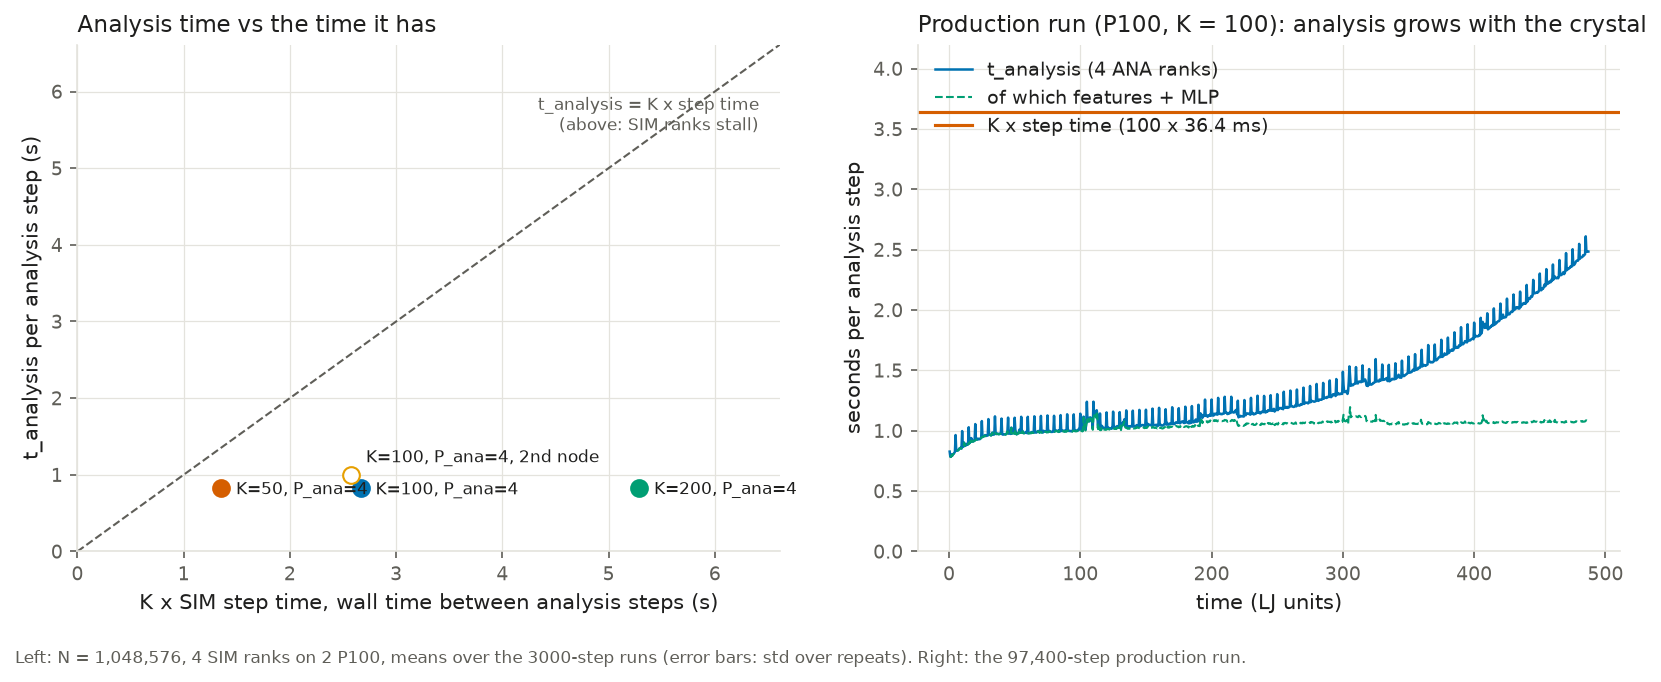
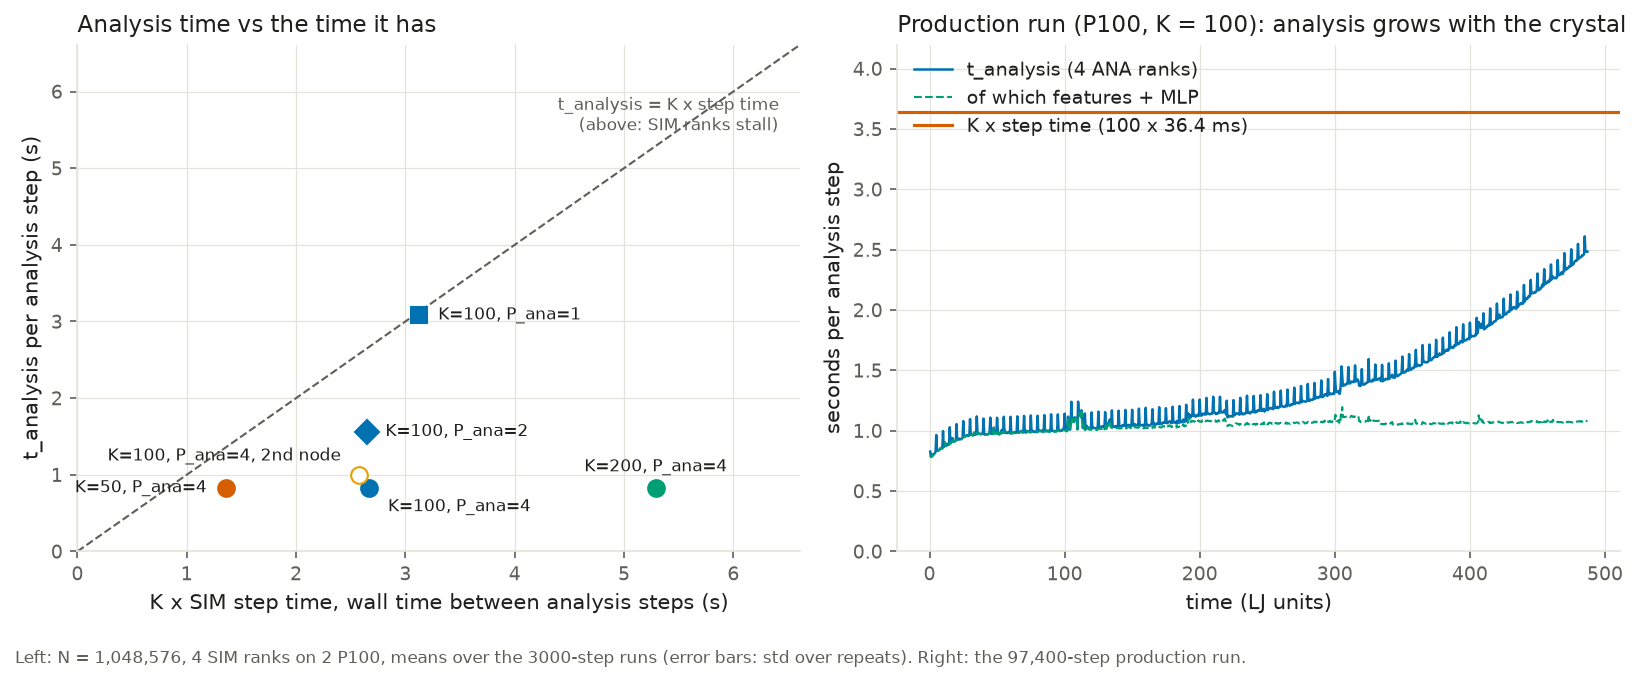
Record in situ overhead vs P_ana (T3.2 measurement 4)
K = 100, 3 repeats. P_ana = 2: +4.1 +- 0.2%, t_analysis 1.56 s, no stall.
P_ana = 1: one ANA rank needs 3.08 s per analysis step, more than the
2.6 s of MD between them, so the SIM ranks stall (13.6 s over 30 sends)
and the step time rises to 31.39 ms (+25%), settling where K x step time
equals t_analysis. runs/perf/results/tables.md holds all tables.

diff --git a/analysis/plot_perf.py b/analysis/plot_perf.py
@@ -268,7 +268,7 @@ if len(ins):
     ax.axhline(0, color=INK, lw=0.8)
     lab = [l.replace(", ANA on a 2nd node", "\nANA on 2nd node").replace(", P_ana", "\nP_ana")
            for l in B.run]
-    lab = [l + ("\n(job 2)" if j == "insitu_sep" and "2nd" not in l else "") for l, j in zip(lab, B.job)]
+    lab = [l + ("\n(other job)" if j == "insitu_sep" and "2nd" not in l else "") for l, j in zip(lab, B.job)]
     ax.set_xticks(x, lab, fontsize=8)
     ax.set_ylabel("SIM step time vs analysis off (%)")
     ax.set_ylim(min(-1, B.over.min() - 1), (B.over + B.over_err).max() * 1.35 + 1)
@@ -323,8 +323,11 @@ if len(ins):
             ax[0].errorbar(r.kstep, r.tana, yerr=r.tana_sd, marker=mk[r.P],
                            color=ORANGE if r.sep else cK[r.K], ms=8, capsize=2, ls="none",
                            mfc="white" if r.sep else None)
+            off_ = {(50, 4, False): (-9, 0, "right"), (100, 4, False): (9, -9, "left"),
+                    (100, 4, True): (-9, 9, "right"), (200, 4, False): (0, 10, "center")}.get(
+                        (int(r.K), int(r.P), bool(r.sep)), (9, 0, "left"))
             ax[0].annotate("K=%d, P_ana=%d%s" % (r.K, r.P, ", 2nd node" if r.sep else ""),
-                           (r.kstep, r.tana), xytext=(7, -3 if not r.sep else 6),
+                           (r.kstep, r.tana), xytext=off_[:2], ha=off_[2], va="center",
                            textcoords="offset points", fontsize=8, color=INK)
         lim = max(q.kstep.max(), q.tana.max()) * 1.25
         ax[0].plot([0, lim], [0, lim], color=MUTED, ls="--", lw=1)

diff --git a/runs/perf/results/tables.md b/runs/perf/results/tables.md
@@ -1,0 +1,97 @@
+rows: 153 experiments: ['drift', 'insitu', 'insitu_sep', 'scaling', 'speedup']
+
+### speedup
+
+| N | CPU 1 core | CPU 10 cores | CPU 20 cores | 1 P100 | 2 P100 | 1 P100 vs 1 core | 1 P100 vs node | 2 P100 vs node |
+|---|---|---|---|---|---|---|---|---|
+| 32,000 | 56.40 | 8.70 | 4.59 | 1.74 | 1.33 | 32.5x | 2.6x | 3.5x |
+| 108,000 | 171.98 | 27.48 | 14.67 | 4.77 | 3.01 | 36.1x | 3.1x | 4.9x |
+| 256,000 | 413.71 | 59.03 | 30.58 | 10.99 | 6.02 | 37.6x | 2.8x | 5.1x |
+| 500,000 | 769.64 | 112.74 | 56.13 | 23.92 | 11.55 | 32.2x | 2.3x | 4.9x |
+| 864,000 | 1355.56 | 201.98 | 99.37 | 46.65 | 21.69 | 29.1x | 2.1x | 4.6x |
+
+(per-rank std)
+
+| config | N | step ms | std | n | force ms |
+|---|---|---|---|---|---|
+| cpu1 | 32000 | 56.401 | 0.195 | 2 | 55.611 |
+| cpu1 | 108000 | 171.978 | 0.055 | 2 | 169.618 |
+| cpu1 | 256000 | 413.708 | 0.026 | 2 | 408.026 |
+| cpu1 | 500000 | 769.636 | 0.096 | 2 | 755.936 |
+| cpu1 | 864000 | 1355.559 | 0.411 | 2 | 1327.085 |
+| cpu10 | 32000 | 8.704 | 0.026 | 3 | 8.094 |
+| cpu10 | 108000 | 27.478 | 0.081 | 3 | 26.316 |
+| cpu10 | 256000 | 59.027 | 0.370 | 3 | 56.506 |
+| cpu10 | 500000 | 112.738 | 0.032 | 3 | 108.510 |
+| cpu10 | 864000 | 201.981 | 0.402 | 3 | 191.474 |
+| cpu20 | 32000 | 4.587 | 0.028 | 3 | 4.111 |
+| cpu20 | 108000 | 14.667 | 0.042 | 3 | 13.627 |
+| cpu20 | 256000 | 30.583 | 0.036 | 3 | 29.052 |
+| cpu20 | 500000 | 56.131 | 0.056 | 3 | 53.881 |
+| cpu20 | 864000 | 99.367 | 0.492 | 3 | 95.528 |
+| gpu1 | 32000 | 1.736 | 0.006 | 3 | 0.897 |
+| gpu1 | 108000 | 4.770 | 0.008 | 3 | 2.385 |
+| gpu1 | 256000 | 10.992 | 0.028 | 3 | 5.426 |
+| gpu1 | 500000 | 23.924 | 0.080 | 3 | 10.151 |
+| gpu1 | 864000 | 46.650 | 0.062 | 3 | 18.460 |
+| gpu2 | 32000 | 1.326 | 0.002 | 3 | 0.728 |
+| gpu2 | 108000 | 3.011 | 0.003 | 3 | 1.464 |
+| gpu2 | 256000 | 6.023 | 0.008 | 3 | 2.790 |
+| gpu2 | 500000 | 11.554 | 0.027 | 3 | 5.411 |
+| gpu2 | 864000 | 21.695 | 0.062 | 3 | 9.242 |
+
+### strong scaling
+
+| run | P | step ms | std | speedup | efficiency |
+|---|---|---|---|---|---|
+| CPU path, N = 256,000 | 1 | 415.29 | 0.15 | 1.00 | 1.00 |
+| CPU path, N = 256,000 | 2 | 225.14 | 0.17 | 1.84 | 0.92 |
+| CPU path, N = 256,000 | 4 | 126.50 | 0.26 | 3.28 | 0.82 |
+| CPU path, N = 256,000 | 8 | 75.19 | 0.02 | 5.52 | 0.69 |
+| CPU path, N = 256,000 | 16 | 38.05 | 0.01 | 10.91 | 0.68 |
+| CPU path, N = 256,000 | 20 | 30.38 | 0.19 | 13.67 | 0.68 |
+| GPU path, N = 256,000 | 1 | 10.87 | 0.04 | 1.00 | 1.00 |
+| GPU path, N = 256,000 | 2 | 6.55 | 0.06 | 1.66 | 0.83 |
+| GPU path, N = 1,048,576 | 1 | 58.52 | 0.06 | 1.00 | 1.00 |
+| GPU path, N = 1,048,576 | 2 | 33.78 | 0.04 | 1.73 | 0.87 |
+| GPU path, N = 1,048,576 | 4 | 25.97 | 0.15 | 2.25 | 0.56 |
+
+### weak scaling
+
+| run | P | N | step ms | std | efficiency |
+|---|---|---|---|---|---|
+| CPU path, 32,000 atoms/core | 1 | 32,000 | 56.50 | 0.04 | 1.00 |
+| CPU path, 32,000 atoms/core | 2 | 64,000 | 59.47 | 0.03 | 0.95 |
+| CPU path, 32,000 atoms/core | 4 | 128,000 | 64.81 | 0.14 | 0.87 |
+| CPU path, 32,000 atoms/core | 8 | 256,000 | 75.32 | 0.02 | 0.75 |
+| CPU path, 32,000 atoms/core | 16 | 512,000 | 75.73 | 0.04 | 0.75 |
+| CPU path, 32,000 atoms/core | 20 | 640,000 | 75.86 | 0.04 | 0.74 |
+| GPU path, 262,144 atoms/GPU | 1 | 262,144 | 11.24 | 0.11 | 1.00 |
+| GPU path, 262,144 atoms/GPU | 2 | 524,288 | 14.60 | 0.03 | 0.77 |
+
+### in situ overhead
+
+| job | run | n | SIM ms/step | std | vs off (%) | +- | t_analysis mean (s) | t_analysis max (s) | stall total (s) | stall max (s) | SIM halo+pack (ms/step) |
+|---|---|---|---|---|---|---|---|---|---|---|---|
+| insitu | off | 6 | 25.08 | 0.05 | +0.0 | 0.3 | nan | nan | nan | nan | nan |
+| insitu | K=50, P_ana=4 | 3 | 26.47 | 0.03 | +5.6 | 0.2 | 0.834 | 1.102 | 0.000 | 0.0000 | 0.143 |
+| insitu | K=100, P_ana=4 | 3 | 26.07 | 0.10 | +4.0 | 0.4 | 0.829 | 0.855 | 0.000 | 0.0000 | 0.076 |
+| insitu | K=200, P_ana=4 | 3 | 25.82 | 0.03 | +3.0 | 0.2 | 0.828 | 0.850 | 0.000 | 0.0000 | 0.040 |
+| insitu | K=100, P_ana=2 | 3 | 26.10 | 0.03 | +4.1 | 0.2 | 1.561 | 1.611 | 0.000 | 0.0000 | 0.077 |
+| insitu | K=100, P_ana=1 | 3 | 31.39 | 0.11 | +25.2 | 0.5 | 3.080 | 3.153 | 13.641 | 0.5559 | 0.080 |
+| insitu_sep | off | 3 | 25.13 | 0.06 | +0.0 | 0.3 | nan | nan | nan | nan | nan |
+| insitu_sep | K=100, P_ana=4 | 3 | 26.05 | 0.06 | +3.7 | 0.3 | 0.824 | 0.847 | 0.000 | 0.0000 | 0.075 |
+| insitu_sep | K=100, P_ana=4, ANA on a 2nd node | 3 | 25.18 | 0.05 | +0.2 | 0.3 | 1.001 | 1.025 | 0.000 | 0.0000 | 0.072 |
+
+### analysis time vs K x step
+
+| K | P_ana | 2nd node | K x step (s) | t_analysis mean (s) | t_analysis max (s) | stall total (s) |
+|---|---|---|---|---|---|---|
+| 50.0 | 4 | False | 1.36 | 0.83 | 1.10 | 0.000 |
+| 100.0 | 1 | False | 3.13 | 3.08 | 3.15 | 13.641 |
+| 100.0 | 2 | False | 2.65 | 1.56 | 1.61 | 0.000 |
+| 100.0 | 4 | False | 2.67 | 0.83 | 0.85 | 0.000 |
+| 100.0 | 4 | True | 2.58 | 1.00 | 1.03 | 0.000 |
+| 200.0 | 4 | False | 5.29 | 0.83 | 0.85 | 0.000 |
+drift host-order threads off mean ms/step melt 27.54 ramp 31.35 hold 31.79 | force melt 14.41 hold 19.32
+drift host-order threads on mean ms/step melt 28.60 ramp 32.50 hold 32.92 | force melt 16.53 hold 20.91
